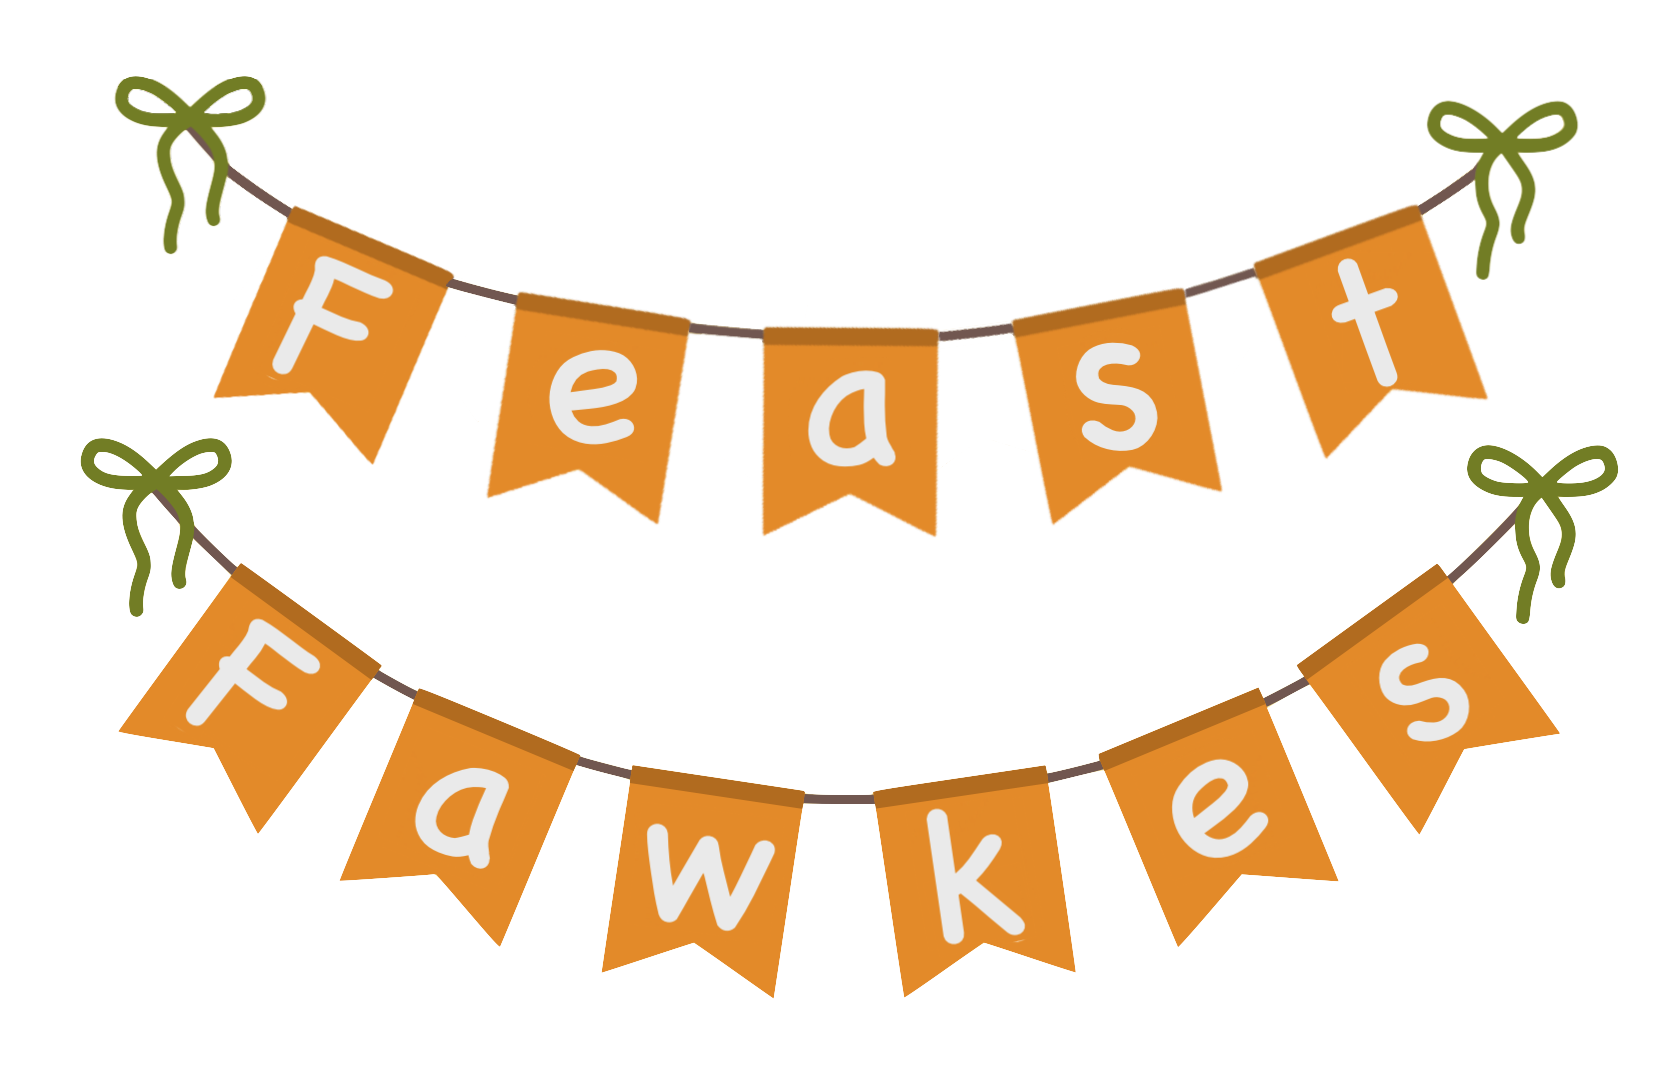
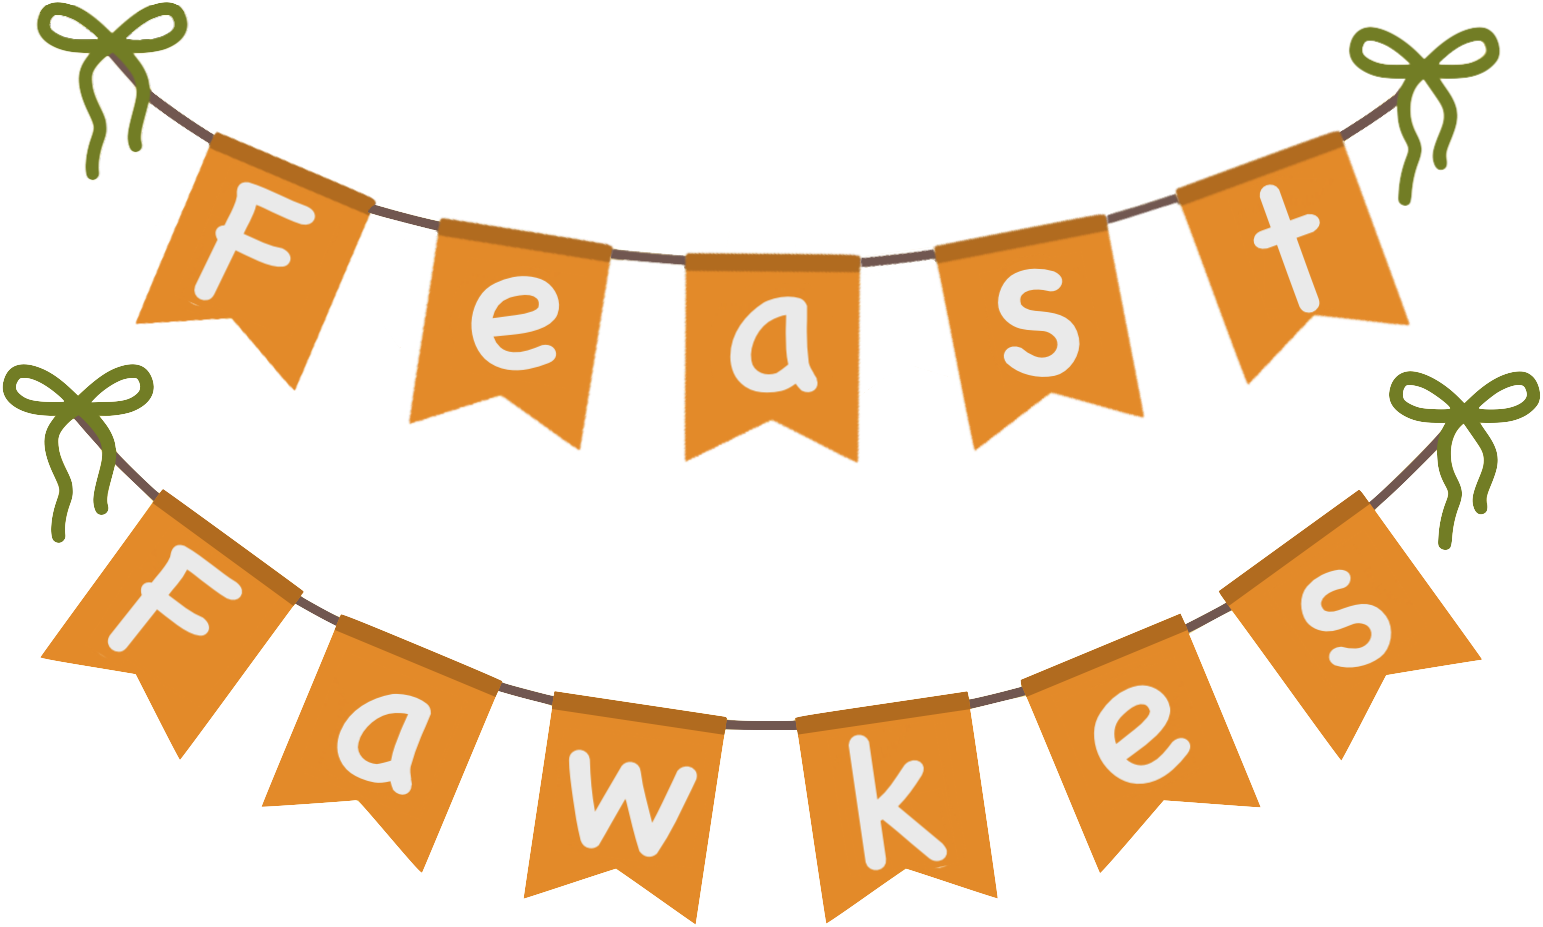
havent committed in a while

Changed region(s): [[0.0, 0.0, 1.0, 0.9968]]

diff --git a/styles.css b/styles.css
@@ -2,17 +2,10 @@
   box-sizing: border-box;
   margin: 0;
   padding: 0;
+  overflow: hidden;
 }
 
-main {
-  width: 100%;
-  height: 100vh;
-  display: flex;
-  flex-direction: column;
-  justify-content: space-betweet;
-  align-items: center;
-  font-family: 'Balsamiq Sans', cursive;
-  color: #855425;
+body {
   background: 
     radial-gradient(#F2972A 3px, transparent 3px),
     radial-gradient(#F2972A 3px, transparent 3px),
@@ -24,19 +17,33 @@ main {
   background-position: 54px 55px, 0px 0px, 0px 0px, 0px 0px, 0px 0px;
 }
 
+main {
+  width: 100%;
+  height: 95vh;
+  display: flex;
+  flex-direction: column;
+  justify-content: space-evenly;
+  align-items: center;
+  font-family: 'Balsamiq Sans', cursive;
+  color: #855425;
+}
+
 #title {
   position: relative;
 }
 
 #title-flags {
   width: 60vw;
+  /* margin-bottom: 3vh; */
   filter: drop-shadow(0.35rem 0.35rem 0.4rem rgba(0, 0, 0, 0.295));
 }
 
 #or {
-  position: fixed;
-  margin-top: 60px;
-  font-size: 3rem;
+  position: absolute;
+  top: 55%;
+  left: 45.5%;
+  font-size: 3vw;
+  text-shadow: 2px 2px 2px rgba(0, 0, 0, 0.404);
 }
 
 button {
@@ -71,8 +78,12 @@ button:focus {
   display: none;
 }
 
-#fam {
-  width: 75vw;
+#instructions {
+  position: absolute;
+  top: -5vh;
+  font-size: 1.5vw;
+  transition: transform 1s;
+  transform: translateY(0vh);
 }
 
 #word-container {
@@ -88,7 +99,7 @@ button:focus {
 }
 
 .letter {
-  width: 6vw;
+  width: 5.5vw;
   height: 15px;
   margin: .5vw;
   font-size: 7vw;
@@ -109,7 +120,7 @@ button:focus {
   position: absolute;
   bottom: 5vh;
   left: 2vw;
-  width: 17vw;
+  width: 20vw;
   height: auto;
   z-index: 1;
   filter: drop-shadow(0.35rem 0.35rem 0.4rem rgba(0, 0, 0, 0.295));
@@ -117,11 +128,11 @@ button:focus {
   transform: translateX(0vw);
 }
 
-#guesses-and-feast-container {
+/* #guesses-and-feast-container {
   position: absolute;
   bottom: 5vh;
   right: 2vw;
-}
+} */
 
 #guesses-and-feast {
   position: absolute;

diff --git a/index.js b/index.js
@@ -1,13 +1,13 @@
 import { words } from './vocab.js';
 const title = document.querySelector('#title');
 const button = document.querySelector('button');
+const instructions = document.getElementById('instructions');
 const wordContainer = document.querySelector('#word-container');
 const guessesContainer = document.querySelector('#guesses-container');
 const incorrectGuesses = document.getElementById('incorrect-guesses');
 const incorrectLetters = document.getElementById('incorrect-letters');
 const fawkes = document.querySelector('#fawkes');
 const feast = document.querySelector('#feast');
-const human = document.querySelector('#human');
 const win = document.querySelector('#win');
 const gameOver = document.querySelector('#game-over');
 let lettersObj = {};
@@ -21,15 +21,20 @@ button.addEventListener('click', startGame);
 function startGame() {
   title.classList.add('hidden');
   button.classList.add('hidden');
+  instructions.style.transform = 'translateY(7vh)';
   fawkes.classList.remove('hidden');
   incorrectGuesses.style.display = 'flex';
   feast.classList.remove('hidden');
+  revealInstructions();
   setWord();
   setIncorrectGuesses();
   setTimeout(() => window.addEventListener('keyup', handleKeyup), 500);
 };
 
 // startGame();
+
+function revealInstructions() {
+}
 
 function setWord() {
   const word = words[12];
@@ -66,6 +71,7 @@ function setIncorrectGuesses() {
 
 function handleKeyup(event) {
   const { key } = event;
+  if (!correctGuessesArr.length && !incorrectGuessesArr.length) instructions.style.transform = 'translateY(-7vh)';
   if (!lettersArr.includes(key)) return handleIncorrectGuess(key);
   handleCorrectGuess(key);
 };
@@ -95,6 +101,7 @@ function handleCorrectGuess(key) {
 function handleWin() {
   guessesContainer.classList.add('hidden');
   win.classList.remove('hidden');
+  fawkes.style.transform = 'scaleX(-1);';
   window.removeEventListener('keyup', handleKeyup);
 };
 

diff --git a/index.html b/index.html
@@ -14,13 +14,13 @@
   <main>
     <div id="title">
       <img id="title-flags" src="./img/title-flags-new.png" alt="">
-      <!-- <h4 id="or">or</h4> -->
+      <h4 id="or">-or-</h4>
     </div>
     <button>CLICK TO PLAY</button>
-    <div id="guesses-container" class="hidden">
-    </div>
+    <div id="instructions">Type a letter to make a guess!</div>
+    <div id="guesses-container" class="hidden"></div>
     <div id="word-container"></div>
-    <img id="fawkes" class="hidden" src="./img/Fawkes Body.png">
+    <img id="fawkes" class="hidden" src="./img/fawkes_final.png">
     <div id="guesses-and-feast">
       <img id="feast" class="hidden" src="./img/feast-no-flags.png" alt="">
       <div id="incorrect-guesses">
